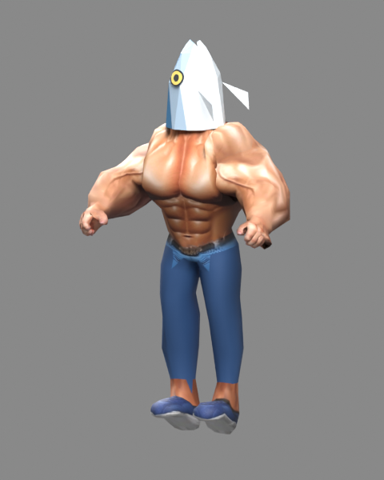
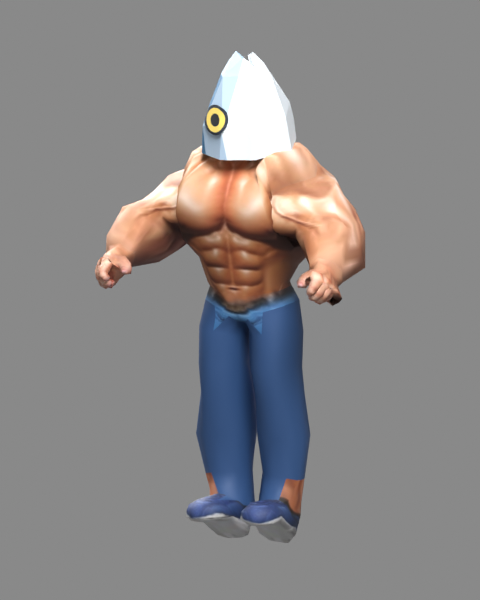
Add independent magenta controls for replacement and native operators

Changed region(s): [[0.1875, 0.0938, 0.7812, 0.875], [0.5, 0.0625, 0.5312, 0.0938]]

diff --git a/installer/app.cpp b/installer/app.cpp
@@ -56,6 +56,9 @@ int main(int argc,char**argv){
  char game[4096]={},addon[4096]={},tf2[4096]={};auto bundled=home/"addons/M1A0-Cat-Gun.bin";if(fs::exists(bundled))snprintf(addon,sizeof(addon),"%s",bundled.u8string().c_str());auto detected=read(state/"discovered.txt");snprintf(game,sizeof(game),"%s",detected.c_str());snprintf(tf2,sizeof(tf2),"%s",read(state/"tf2.txt").c_str());
  auto saved=read(state/"selected.txt");for(auto&m:mods)m.selected=saved.find(m.id+"\n")!=std::string::npos||saved==m.id;
  std::istringstream choices(read(state/"operator-plan.tsv"));std::string line;while(std::getline(choices,line)){auto split=line.find('\t');if(split==std::string::npos)continue;for(auto&t:operator_targets)if(t.id==line.substr(0,split))for(size_t n=0;n<operator_models.size();++n)if(operator_models[n].id==line.substr(split+1))t.choice=int(n);}
+ bool native_magenta=false;for(auto&m:mods)if(m.id=="players")native_magenta=m.selected;
+ for(auto&m:operator_models)m.magenta=m.id.rfind("tf2_",0)==0||m.id=="titanfall_pilot";
+ std::istringstream colors(read(state/"operator-appearance.tsv"));while(std::getline(colors,line)){auto split=line.find('\t');if(split==std::string::npos)continue;bool enabled=line.substr(split+1)=="1";if(line.substr(0,split)=="game_customs")native_magenta=enabled;for(auto&m:operator_models)if(m.id==line.substr(0,split))m.magenta=enabled;}
  std::vector<const char*>operator_labels;for(auto&m:operator_models)operator_labels.push_back(m.title.c_str());
  std::string capture;int tab=0;for(int n=1;n+1<argc;++n){if(std::string(argv[n])=="--capture")capture=argv[n+1];if(std::string(argv[n])=="--tab")tab=std::max(0,std::min(3,atoi(argv[n+1])));}
  bool authorized=false;std::thread worker;std::string job_action;std::string notice="Choose mods independently. Originals are backed up before installation.";
@@ -66,12 +69,10 @@ int main(int argc,char**argv){
   for(auto&m:mods){if(m.image)ft::free_image(m.image);auto local=state/"previews"/(m.id+".png");bool imported=fs::exists(local);m.image=ft::load_image((imported?local:home/fs::u8path(m.thumbnail)).u8string().c_str());if(imported){m.thumb_w=640;m.thumb_h=480;}}
   for(auto&m:operator_models){if(m.image)ft::free_image(m.image);m.image=nullptr;auto local=state/"previews"/(m.id+".png");if(fs::exists(local)){m.image=ft::load_image(local.u8string().c_str());m.thumb_w=480;m.thumb_h=600;}else if(!m.thumbnail.empty())m.image=ft::load_image((home/fs::u8path(m.thumbnail)).u8string().c_str());}
  };reload_previews();
+ auto write_appearance=[&](std::ostream&f){f<<",\"operator_appearance\":{\"game_customs_magenta\":"<<(native_magenta?"true":"false")<<",\"model_magenta\":{";bool first=true;for(auto&m:operator_models)if(m.id!="original"){if(!first)f<<',';first=false;f<<'"'<<m.id<<"\":"<<(m.magenta?"true":"false");}f<<"}}";};
  auto start=[&](const char*action){
   if(busy)return;if(worker.joinable())worker.join();job_action=action;
-  std::ofstream f(state/"request.json");f<<"{\"action\":\""<<action<<"\",\"game\":\""<<escape(game)<<"\",\"addon\":\""<<escape(addon)<<"\",\"state\":\""<<escape(state.u8string())<<"\",\"tf2\":\""<<escape(tf2)<<"\",\"offline_authorized\":"<<(authorized?"true":"false")<<",\"selected\":[";bool first=true;for(auto&m:mods)if(m.selected){if(!first)f<<',';first=false;f<<'"'<<m.id<<'"';}f<<"],\"supported_mods\":[";first=true;for(auto&m:mods){if(!first)f<<',';first=false;f<<'"'<<m.id<<'"';}f<<"],\"operator_assignments\":{";first=true;for(auto&t:operator_targets)if(t.choice){if(!first)f<<',';first=false;f<<'"'<<t.id<<"\":\""<<operator_models[t.choice].id<<'"';}f<<"}}";f.close();
-  if(std::string(action)=="save_operators"){
-   std::ofstream plan(state/"request.json");plan<<"{\"action\":\"save_operators\",\"state\":\""<<escape(state.u8string())<<"\",\"tf2\":\""<<escape(tf2)<<"\",\"operator_assignments\":{";bool first=true;for(auto&t:operator_targets)if(t.choice){if(!first)plan<<',';first=false;plan<<'"'<<t.id<<"\":\""<<operator_models[t.choice].id<<'"';}plan<<"}}";
-  }
+  std::ofstream f(state/"request.json");f<<"{\"action\":\""<<action<<"\",\"game\":\""<<escape(game)<<"\",\"addon\":\""<<escape(addon)<<"\",\"state\":\""<<escape(state.u8string())<<"\",\"tf2\":\""<<escape(tf2)<<"\",\"offline_authorized\":"<<(authorized?"true":"false")<<",\"selected\":[";bool first=true;for(auto&m:mods)if(m.selected){if(!first)f<<',';first=false;f<<'"'<<m.id<<'"';}f<<"],\"supported_mods\":[";first=true;for(auto&m:mods){if(!first)f<<',';first=false;f<<'"'<<m.id<<'"';}f<<"],\"operator_assignments\":{";first=true;for(auto&t:operator_targets)if(t.choice){if(!first)f<<',';first=false;f<<'"'<<t.id<<"\":\""<<operator_models[t.choice].id<<'"';}f<<"}";write_appearance(f);f<<"}";f.close();
   auto args=backend;args.insert(args.end(),{"--request",(state/"request.json").u8string()});busy=true;result=-1;notice=job_action=="save_operators"?"Saving operator choices. Game files stay unchanged.":"Working. Building and verifying bundles before installation...";worker=std::thread([&,args]{result=run(args,state/"install.log");busy=false;});
  };
  while(ft::pump()){
@@ -83,11 +84,12 @@ int main(int argc,char**argv){
   if(ft::button("Choose local M1A0 archive")){auto p=ft::open_file_dialog("M1A0 Cat Gun archive",nullptr,0);if(!p.empty())snprintf(addon,sizeof(addon),"%s",p.c_str());}
   const char*tabs[]={"Weapon models","Textures","Extras","Operators"};ft::tabs(tabs,4,&tab);
   if(tab==3){
-   ft::text_wrapped("Choose each operator's model. Apply selected mods installs available choices. Preview renders are not in-game screenshots.");
+   ft::text_wrapped("Choose each operator's model. Previews show source colors; Magenta applies at install. In-game tests remain pending.");
    ft::input("Local TF2 folder for mercenary models (blank = Steam detection)",tf2,sizeof(tf2));
    if(busy)ft::begin_disabled();if(ft::button("Import TF2 previews (game files unchanged)"))start("preview_tf2");if(busy)ft::end_disabled();
-   ft::scroll_area("Operator assignments",490,[&]{for(auto&t:operator_targets){ft::row({.22f,.48f,.30f},[&]{ft::content([&]{ft::text(t.title.c_str());});ft::content([&]{if(busy)ft::begin_disabled();ft::dropdown(("Model##"+t.id).c_str(),operator_labels.data(),int(operator_labels.size()),&t.choice);ft::text_wrapped(operator_models[t.choice].status.c_str());if(busy)ft::end_disabled();});ft::content([&]{auto&m=operator_models[t.choice];if(m.image){float fit=std::min(225.f/m.thumb_w,145.f/m.thumb_h);ft::image(m.image,m.thumb_w*fit,m.thumb_h*fit);}});});ft::separator();}});
-   if(busy)ft::begin_disabled();ft::row(2,[&]{if(ft::button("Save operator choices"))start("save_operators");if(ft::button("Use game models for all operators"))for(auto&t:operator_targets)t.choice=0;});if(busy)ft::end_disabled();
+   if(busy)ft::begin_disabled();ft::checkbox("Magenta for unmodified in-game operator models",&native_magenta);if(busy)ft::end_disabled();
+   ft::scroll_area("Operator assignments",490,[&]{for(auto&t:operator_targets){ft::row({.22f,.48f,.30f},[&]{ft::content([&]{ft::text(t.title.c_str());});ft::content([&]{if(busy)ft::begin_disabled();ft::dropdown(("Model##"+t.id).c_str(),operator_labels.data(),int(operator_labels.size()),&t.choice);ft::text_wrapped(operator_models[t.choice].status.c_str());if(busy)ft::end_disabled();});ft::content([&]{auto&m=operator_models[t.choice];if(t.choice){if(busy)ft::begin_disabled();ft::checkbox(("Magenta##color_"+t.id).c_str(),&m.magenta);if(busy)ft::end_disabled();}if(m.image){float fit=std::min(225.f/m.thumb_w,145.f/m.thumb_h);ft::image(m.image,m.thumb_w*fit,m.thumb_h*fit);}});});ft::separator();}});
+   if(busy)ft::begin_disabled();ft::row(2,[&]{if(ft::button("Save operator choices and colors"))start("save_operators");if(ft::button("Use game models for all operators"))for(auto&t:operator_targets)t.choice=0;});if(busy)ft::end_disabled();
   }else ft::scroll_area("Mod catalogue",600,[&]{std::vector<Mod*>shown;for(auto&m:mods)if(m.group==std::string(tab==0?"Models":tab==1?"Textures":"Extras"))shown.push_back(&m);for(size_t n=0;n<shown.size();n+=3){ft::row(3,[&]{for(size_t i=n;i<std::min(n+3,shown.size());++i){auto&m=*shown[i];ft::content([&]{if(busy)ft::begin_disabled();ft::checkbox(m.title.c_str(),&m.selected);if(m.image){float fit=std::min(290.f/m.thumb_w,203.f/m.thumb_h);ft::image(m.image,m.thumb_w*fit,m.thumb_h*fit);}ft::text_wrapped(m.kind.c_str());ft::text_wrapped(m.description.c_str());ft::separator();if(busy)ft::end_disabled();});}});}});
   if(busy)ft::begin_disabled();ft::checkbox("I will use these mods offline or in an explicitly authorized environment",&authorized);
   ft::row(2,[&]{if(!authorized)ft::begin_disabled();if(ft::button("Apply selected mods",ft::ColorRole::Accent))start("apply");if(!authorized)ft::end_disabled();if(ft::button("Restore all originals"))start("restore");});if(busy)ft::end_disabled();

diff --git a/operators/native_colors.py b/operators/native_colors.py
@@ -1,0 +1,98 @@
+"""Independent color control for unreplaced native operator renderers.
+
+Clone pristine materials/albedos into the private operator bundle. Shared game
+materials/textures stay unchanged, including arms, weapons and custom models.
+External material references are remapped by CAB identity, never path-ID alone.
+"""
+import copy,gc,hashlib,json
+from pathlib import Path
+import UnityPy
+from bundle_utils import digest,inventory
+from catgun.bundle import new_object
+from halftone.assets import key,dump
+from halftone.encoding import apply_pattern
+from halftone.materials import TINTS
+from .bundles import BUNDLE
+
+SOURCES=(BUNDLE,'src/src','root/root')
+ALBEDOS={'_BaseMap','_MainTex','_BaseColorMap','_Albedo'}
+
+
+def build(config,settings):
+    source=Path(config['bundle_root'])/BUNDLE;original_root=Path(settings['original_root']);out=Path(settings['output']);backup=Path(settings['backups'])/BUNDLE
+    if digest(source)!=settings['source_sha256']:raise ValueError('Native color baseline changed')
+    for rel in SOURCES:
+        if digest(original_root/rel)!=settings['original_sha256'][rel]:raise ValueError('Pristine color source changed: '+rel)
+    if (out/'manifest.json').exists():raise ValueError('Choose a fresh native color output')
+    from installer.mwc_installer.engine import copy_private
+    copy_private(source,backup);env=UnityPy.load(str(backup));before=inventory(env);objects={key(o.assets_file.name,o.path_id):o for o in env.objects};old=list(env.objects)
+    pristine=UnityPy.load(*(str(original_root/r) for r in SOURCES));originals={key(o.assets_file.name,o.path_id):o for o in pristine.objects};asset=next(o.assets_file for o in old if o.type.name=='SkinnedMeshRenderer');external_names=[e.name for e in asset.externals]
+    material_template=next(o for o in old if o.type.name=='Material');texture_template=next(o for o in old if o.type.name=='Texture2D');cloned_materials={};cloned_textures={};added=[];changes={};tex_checks=[]
+    def destination_ref(owner,ref):
+        if not ref['m_PathID']:return {'m_FileID':0,'m_PathID':0}
+        name=owner.name if ref['m_FileID']==0 else owner.externals[ref['m_FileID']-1].name
+        if name==asset.name:return {'m_FileID':0,'m_PathID':ref['m_PathID']}
+        if name not in external_names:
+            if ref['m_FileID']==0:
+                # A source CAB is already a reviewed dependency of thrid_person.
+                raise ValueError('Source CAB is not a native operator dependency: '+name)
+            asset.externals.append(copy.deepcopy(owner.externals[ref['m_FileID']-1]));external_names.append(name)
+        return {'m_FileID':external_names.index(name)+1,'m_PathID':ref['m_PathID']}
+    def original_object(owner,ref):
+        name=owner.name if ref['m_FileID']==0 else owner.externals[ref['m_FileID']-1].name
+        obj=originals.get(key(name,ref['m_PathID']))
+        if obj is None:raise ValueError('Pristine operator dependency is unavailable: '+key(name,ref['m_PathID']))
+        return obj
+    def remap(owner,value):
+        if isinstance(value,dict):
+            if set(value)>={'m_FileID','m_PathID'}:return destination_ref(owner,value)
+            return {k:remap(owner,v) for k,v in value.items()}
+        if isinstance(value,(list,tuple)):return type(value)(remap(owner,v) for v in value)
+        return value
+    def texture(original):
+        identifier=key(original.assets_file.name,original.path_id)
+        if identifier in cloned_textures:return cloned_textures[identifier]
+        if original.type.name!='Texture2D':raise ValueError('Native operator albedo needs an explicit codec: '+original.type.name)
+        obj=new_object(texture_template,'MWC-native-color-texture-'+identifier,objects);tex=original.read();raw=tex.get_image_data()
+        # UnityPy's typetree spelling is version dependent; use the typed writer
+        # after copying metadata so streamed compressed mip bytes remain exact.
+        obj.save_typetree(original.read_typetree());t=obj.read();t.m_Name='MWC_NativeColor_'+tex.m_Name;t.image_data=raw;t.m_StreamData.path='';t.m_StreamData.offset=t.m_StreamData.size=0;t.save()
+        if settings['magenta']:
+            t=obj.read();apply_pattern(t,config['categories']['characters']['color'],config['generation'])
+        else:tex_checks.append((obj.path_id,hashlib.sha256(raw).hexdigest()))
+        cloned_textures[identifier]=obj.path_id;added.append(key(asset.name,obj.path_id));return obj.path_id
+    def material(original):
+        identifier=key(original.assets_file.name,original.path_id)
+        if identifier in cloned_materials:return cloned_materials[identifier]
+        tree=original.read_typetree();result=remap(original.assets_file,tree);result['m_Name']='MWC_NativeColor_'+tree['m_Name']
+        source_slots=dict(tree['m_SavedProperties']['m_TexEnvs'])
+        for slot,value in result['m_SavedProperties']['m_TexEnvs']:
+            pointer=source_slots[slot]['m_Texture']
+            if slot in ALBEDOS and pointer['m_PathID']:value['m_Texture']={'m_FileID':0,'m_PathID':texture(original_object(original.assets_file,pointer))}
+        if settings['magenta']:
+            for slot,color in result['m_SavedProperties']['m_Colors']:
+                if slot in TINTS:color['r']=color['g']=color['b']=1.
+            result['m_SavedProperties']['m_Floats']=[(slot,0. if slot=='EnableCamo' else value) for slot,value in result['m_SavedProperties']['m_Floats']]
+        obj=new_object(material_template,'MWC-native-color-material-'+identifier,objects);obj.save_typetree(result);cloned_materials[identifier]=obj.path_id;added.append(key(asset.name,obj.path_id));return obj.path_id
+    targets=json.loads((Path(__file__).resolve().parents[1]/'config/operator-targets.json').read_text())['operators'];skipped=set(settings.get('operator_assignments',{}));native_cab=asset.name
+    for target in targets:
+        if target['id'] in skipped:continue
+        for row in target['renderers']:
+            oid=key(native_cab,int(row['path_id']));obj=objects[oid];tree=obj.read_typetree();pristine_renderer=originals[oid];original_tree=pristine_renderer.read_typetree();materials=[{'m_FileID':0,'m_PathID':material(original_object(pristine_renderer.assets_file,p))} if p['m_PathID'] else p for p in original_tree['m_Materials']];tree['m_Materials']=materials;obj.save_typetree(tree);changes[oid]=materials
+    expected=copy.deepcopy(before)
+    for oid in list(changes)+added:
+        obj=objects[oid];expected[(obj.assets_file.name,obj.path_id)]={'type':obj.type.name,'sha256':hashlib.sha256(obj.data).hexdigest()}
+    destination=out/BUNDLE;destination.parent.mkdir(parents=True,exist_ok=True);destination.write_bytes(env.file.save(packer='lz4'));del env;gc.collect();checked=UnityPy.load(str(destination));after={key(o.assets_file.name,o.path_id):o for o in checked.objects}
+    if inventory(checked)!=expected:raise ValueError('Native operator color serialization mismatch')
+    for obj in old:
+        oid=key(obj.assets_file.name,obj.path_id)
+        if oid not in changes and obj.get_raw_data()!=after[oid].get_raw_data():raise ValueError('Unrelated native color asset changed')
+    baseline=UnityPy.load(str(backup))
+    for obj in baseline.objects:
+        oid=key(obj.assets_file.name,obj.path_id)
+        if oid in changes:
+            tree=obj.read_typetree();tree['m_Materials']=changes[oid]
+            if tree!=after[oid].read_typetree():raise ValueError('Native color exceeded renderer material whitelist')
+    for pid,sha in tex_checks:
+        if hashlib.sha256(after[key(native_cab,pid)].read().get_image_data()).hexdigest()!=sha:raise ValueError('Restored original albedo mip bytes changed')
+    report={'files':[{'bundle':BUNDLE,'output':str(destination.resolve()),'backup':str(backup.resolve()),'source_sha256':digest(backup),'output_sha256':digest(destination)}],'magenta':settings['magenta'],'native_renderers':len(changes),'materials_cloned':len(cloned_materials),'textures_cloned':len(cloned_textures),'verification':{'all_other_original_objects_byte_exact':True,'only_owned_renderer_material_bindings_changed':True,'pristine_albedo_mip_bytes_exact':not settings['magenta'],'replaced_models_excluded':sorted(skipped)},'in_game_tested':False};dump(out/'manifest.json',report);return report

diff --git a/installer/mwc_installer/engine.py b/installer/mwc_installer/engine.py
@@ -164,7 +164,7 @@ def recover(config,state):
         replace_verified(Path(row['backup']),target,row['after'],row['before'])
     jp.unlink();log('Recovered interrupted transaction; previous selections restored.')
 
-def transaction(config,state,saved,outputs,selected,operator_assignments=None):
+def transaction(config,state,saved,outputs,selected,operator_assignments=None,operator_appearance=None):
     root=Path(config['bundle_root']);identity=uuid.uuid4().hex;undo=state/'transactions'/identity;rows=[]
     for rel,source in sorted(outputs.items()):
         before=saved['installed'][rel];after=digest(source)
@@ -174,19 +174,20 @@ def transaction(config,state,saved,outputs,selected,operator_assignments=None):
         rows.append(dict(bundle=rel,source=str(source),backup=str(backup.resolve()),before=before,after=after))
     verify_current(config,state,saved)
     if game_running(root.parents[2]):raise ValueError('Close Combat Master before installing')
-    j={'id':identity,'files':rows,'selected':sorted(selected),'operator_assignments':operator_assignments};dump(state/'pending.json',j)
+    j={'id':identity,'files':rows,'selected':sorted(selected),'operator_assignments':operator_assignments,'operator_appearance':operator_appearance};dump(state/'pending.json',j)
     try:
         for row in rows:
             replace_verified(Path(row['source']),root/row['bundle'],row['before'],row['after']);log('Installed and hash verified: '+row['bundle'])
         updated=copy.deepcopy(saved);updated['selected']=sorted(selected);updated['transaction']=identity
         if operator_assignments is not None:updated['operator_assignments']=copy.deepcopy(operator_assignments)
+        if operator_appearance is not None:updated['operator_appearance']=copy.deepcopy(operator_appearance)
         for row in rows:updated['installed'][row['bundle']]=row['after']
         dump(state/'state.json',updated)
     except BaseException:
         recover(config,state);raise
     (state/'pending.json').unlink();return updated
 
-def compose(config,state,saved,selected,addon,operator_assignments=None,tf2=''):
+def compose(config,state,saved,selected,addon,operator_assignments=None,tf2='',operator_appearance=None):
     """Always compose from originals; no stale layer can overwrite another mod."""
     from halftone.pipeline import build_id
     from halftone.assets import scan
@@ -202,6 +203,8 @@ def compose(config,state,saved,selected,addon,operator_assignments=None,tf2=''):
     c=copy.deepcopy(config);c['bundle_root']=str(work);c['source_overrides']={}
     c['paths']={n:str(run/n) for n in ('reports','output','backups','canonical')}
     if operator_assignments is None:operator_assignments=saved.get('operator_assignments',{})
+    from operators.styles import normalize as appearance_defaults
+    operator_appearance=appearance_defaults(saved.get('operator_appearance') if operator_appearance is None else operator_appearance,players='players' in selected)
     textures=bool(selected&{'players','weapons','terrain'})
     for name,category in c['categories'].items():category['enabled']=('players' in selected if name=='characters' else 'weapons' in selected if name=='weapons' else 'terrain' in selected)
     if textures:
@@ -268,10 +271,13 @@ def compose(config,state,saved,selected,addon,operator_assignments=None,tf2=''):
     if 'menu' in selected:
         import menu_background
         log('Building Fishguy menu...');s=settings('menu');s.update(source_sha256=digest(work/'root/root'),image=str(ROOT/'assets/branding/menu-halftone.png'));menu_background.build(c,s);merge(s)
+    if operator_appearance['game_customs_magenta']!=('players' in selected):
+        from operators.native_colors import build as native_colors,SOURCES as native_color_sources
+        log('Building independent native-operator colors...');s=settings('native-colors');s.update(source_sha256=digest(work/'src/thrid_person'),original_root=str(state/'originals'),original_sha256={r:saved['originals'][r] for r in native_color_sources},magenta=operator_appearance['game_customs_magenta'],operator_assignments=operator_assignments);native_colors(c,s);merge(s)
     if operator_assignments:
         from operators.library import prepare as operator_sources
         from operators.bundles import build as operator_build,BUNDLE
-        log('Building explicit per-operator replacements...');s=settings('operators');s.update(assignments=operator_assignments,source_sha256=digest(work/BUNDLE),library=operator_sources(c,operator_assignments,run,tf2));operator_build(c,s);merge(s)
+        log('Building explicit per-operator replacements...');s=settings('operators');s.update(assignments=operator_assignments,source_sha256=digest(work/BUNDLE),library=operator_sources(c,operator_assignments,run,tf2,operator_appearance));operator_build(c,s);merge(s)
     return {rel:work/rel for rel in saved['originals']}
 
 def validate_frontend(saved,request):
@@ -281,6 +287,7 @@ def validate_frontend(saved,request):
     missing=set(saved.get('selected',[]))-set(supported)
     if missing:raise ValueError('Outdated installer cannot represent installed mods: '+', '.join(sorted(missing))+'. Reopen the current installer before applying a selection.')
     if saved.get('operator_assignments') and 'operator_assignments' not in request:raise ValueError('Outdated installer cannot represent installed operator assignments; reopen the current installer')
+    if saved.get('operator_appearance') and 'operator_appearance' not in request:raise ValueError('Outdated installer cannot represent installed operator colors; reopen the current installer')
 
 def execute(request):
     game=request.get('game','')
@@ -301,10 +308,12 @@ def execute(request):
         os.chdir(state) # legacy safe_output confines generated files to CWD
         recover(config,state)
         saved=snapshot(config,state,request.get('adopt'));verify_current(config,state,saved)
+        from operators.styles import normalize as appearance_defaults
+        operator_appearance=appearance_defaults(request.get('operator_appearance',saved.get('operator_appearance')),players='players' in selected)
         if request['action']=='apply':validate_frontend(saved,request)
-        if request['action']=='restore':selected=set();operator_assignments={};outputs={rel:state/'originals'/rel for rel in saved['originals']}
-        elif request['action']=='apply':outputs=compose(config,state,saved,selected,request.get('addon',''),operator_assignments,request.get('tf2',''))
+        if request['action']=='restore':selected=set();operator_assignments={};operator_appearance=appearance_defaults(players=False);outputs={rel:state/'originals'/rel for rel in saved['originals']}
+        elif request['action']=='apply':outputs=compose(config,state,saved,selected,request.get('addon',''),operator_assignments,request.get('tf2',''),operator_appearance)
         else:raise ValueError('Unknown action')
-        result=transaction(config,state,saved,outputs,selected,operator_assignments)
+        result=transaction(config,state,saved,outputs,selected,operator_assignments,operator_appearance)
         log('Complete. Selected mods: '+(', '.join(result['selected']) or 'none (originals restored)'))
         return result

diff --git a/staged_bundle_update.py b/staged_bundle_update.py
@@ -29,7 +29,7 @@ def run(action,settings):
             if assignments is not None:
                 from operators.assignments import validate
                 assignments=validate(assignments)
-            result=e.transaction(c,state,saved,outputs,set(settings['selected']),operator_assignments=assignments)
+            result=e.transaction(c,state,saved,outputs,set(settings['selected']),operator_assignments=assignments,operator_appearance=settings.get('operator_appearance'))
             journal=state/'transactions'/result['transaction'];undo={r:str(journal/r) for r in outputs if (journal/r).is_file()}
             dump(record,{'status':'applied','before':saved,'after':result,'undo':undo,'in_game_tested':False})
         elif action=='restore':
@@ -37,13 +37,17 @@ def run(action,settings):
             if rec['status']!='applied':raise ValueError('No applied expansion to restore')
             if saved['installed']!=rec['after']['installed']:raise ValueError('Installed selection changed after this update; restore through the manager instead')
             outputs={rel:Path(p) for rel,p in rec['undo'].items()}
-            result=e.transaction(c,state,saved,outputs,set(rec['before']['selected']),operator_assignments=rec['before'].get('operator_assignments',{}))
+            from operators.styles import normalize
+            result=e.transaction(c,state,saved,outputs,set(rec['before']['selected']),operator_assignments=rec['before'].get('operator_assignments',{}),operator_appearance=normalize(rec['before'].get('operator_appearance'),players='players' in rec['before']['selected']))
             if result['installed']!=rec['before']['installed']:raise ValueError('Restored stack hashes do not match the recorded prior state')
             rec['status']='restored';dump(record,rec)
         else:raise ValueError('Unknown action')
         (state/'selected.txt').write_text('\n'.join(result['selected'])+'\n')
         from operators.assignments import save_plan
         save_plan(state,result.get('operator_assignments',{}))
+        if 'operator_appearance' in result:
+            from operators.styles import save as save_styles
+            save_styles(state,result['operator_appearance'],players='players' in result['selected'])
         return {'action':action,'selected':result['selected'],'game_process_was_not_closed':True,'in_game_tested':False}
 if __name__=='__main__':
     p=argparse.ArgumentParser();p.add_argument('action',choices=['apply','restore']);p.add_argument('--config',required=True);a=p.parse_args();print(json.dumps(run(a.action,json.loads(Path(a.config).read_text())),indent=2))

diff --git a/tests/test_operator_styles.py b/tests/test_operator_styles.py
@@ -1,0 +1,31 @@
+import json,tempfile,unittest
+from pathlib import Path
+import numpy as np
+from operators.styles import normalize,save,load
+from operators.assets import load as asset
+
+ROOT=Path(__file__).resolve().parents[1]
+
+
+class OperatorStyles(unittest.TestCase):
+    def test_defaults_preserve_character_designs_and_current_native_selection(self):
+        plain=normalize(players=False);painted=normalize(players=True)
+        self.assertFalse(plain['game_customs_magenta']);self.assertTrue(painted['game_customs_magenta'])
+        for name in ['fishguy','shrek','mario','minecraft_steve']:self.assertFalse(plain['model_magenta'][name])
+        self.assertTrue(plain['model_magenta']['tf2_heavy'])
+
+    def test_model_and_native_preferences_are_independent_and_roundtrip(self):
+        with tempfile.TemporaryDirectory() as directory:
+            value={'model_magenta':{'fishguy':True,'tf2_heavy':False},'game_customs_magenta':False};saved=save(directory,value,players=True);self.assertEqual(load(directory),saved);self.assertTrue(saved['model_magenta']['fishguy']);self.assertFalse(saved['model_magenta']['tf2_heavy']);self.assertFalse(saved['game_customs_magenta']);self.assertFalse((Path(directory)/'state.json').exists())
+
+    def test_unknown_models_or_non_boolean_choices_are_rejected(self):
+        for value in [{'model_magenta':{'unknown':True}},{'model_magenta':{'shrek':1}},{'game_customs_magenta':'false'}]:
+            with self.assertRaises(ValueError):normalize(value)
+
+    def test_magenta_recolors_without_changing_source_geometry_skin_or_alpha(self):
+        source=ROOT/'assets/operator-sources/shrek';config=json.loads((ROOT/'config/preset.json').read_text());a,plain,ia,wa,_=asset(source);b,magenta,ib,wb,_=asset(source,'magenta',config)
+        for x,y in zip(a.arrays(),b.arrays()):np.testing.assert_array_equal(x,y)
+        np.testing.assert_array_equal(ia,ib);np.testing.assert_array_equal(wa,wb);np.testing.assert_array_equal(np.asarray(plain)[:,:,3],np.asarray(magenta)[:,:,3]);self.assertFalse(np.array_equal(np.asarray(plain)[:,:,:3],np.asarray(magenta)[:,:,:3]))
+
+
+if __name__=='__main__':unittest.main()

diff --git a/installer/backend.py b/installer/backend.py
@@ -30,6 +30,8 @@ def main():
         state_path=a.status.parent/'state.json';saved=json.loads(state_path.read_text()) if state_path.exists() else {}
         choices=load_plan(a.status.parent) if (a.status.parent/'operator-plan.json').exists() else saved.get('operator_assignments',{})
         save_plan(a.status.parent,choices)
+        from operators.styles import load as load_styles,save as save_styles
+        save_styles(a.status.parent,load_styles(a.status.parent,saved.get('operator_appearance'),players='players' in saved.get('selected',[])))
         games=discover();a.status.parent.mkdir(parents=True,exist_ok=True);a.status.write_text(games[0] if len(games)==1 else '',encoding='utf8');return
     if not a.request:p.error('--request or --status required')
     request=json.loads(a.request.read_text(encoding='utf8'))
@@ -41,6 +43,8 @@ def main():
         from operators.assignments import save_plan
         with engine.locked(Path(request['state'])):
             saved=save_plan(request['state'],request.get('operator_assignments',{}))
+            from operators.styles import save as save_styles
+            save_styles(request['state'],request.get('operator_appearance'),players='players' in request.get('selected',[]))
             Path(request['state'],'tf2.txt').write_text(request.get('tf2',''),encoding='utf8')
         print('Saved '+str(len(saved))+' operator choices. Game files unchanged; rig builds and installation remain pending.',flush=True)
         return
@@ -49,6 +53,8 @@ def main():
     if request['action']=='apply':
         from operators.assignments import save_plan
         save_plan(request['state'],result.get('operator_assignments',{}));Path(request['state'],'tf2.txt').write_text(request.get('tf2',''),encoding='utf8')
+    from operators.styles import save as save_styles
+    save_styles(request['state'],result.get('operator_appearance'),players='players' in result['selected'])
 if __name__=='__main__':
     try:main()
     except BaseException as e:

diff --git a/operators/assets.py b/operators/assets.py
@@ -16,9 +16,13 @@ def load(source,style='original',pattern_config=None):
         for filename,field in [('source.npz','mesh_sha256'),('albedo.png','albedo_sha256')]:
             if hashlib.sha256((source/filename).read_bytes()).hexdigest()!=meta[field]:raise ValueError('Packaged operator source hash mismatch: '+filename)
         with Image.open(source/'albedo.png') as image:atlas=image.convert('RGBA')
-        if style!='original':raise ValueError('Prepacked source needs an explicitly prepared style variant')
+        if style=='magenta':
+            if pattern_config is None:raise ValueError('Magenta style needs the existing halftone configuration')
+            from halftone.patterns import pattern
+            pixels=np.asarray(atlas).copy();dots,_=pattern(pattern_config['categories']['characters']['color'],pattern_config['generation'],atlas.width,atlas.height);detail=(pixels[:,:,:3].astype(float)@np.array([.2126,.7152,.0722]))/255;pixels[:,:,:3]=np.rint(dots*(.30+.70*detail[:,:,None])).astype(np.uint8);atlas=Image.fromarray(pixels)
+        elif style!='original':raise ValueError('Unknown operator material style')
         mesh=Mesh();mesh.vertices=v.tolist();mesh.normals=n.tolist();mesh.uv=uv.tolist();mesh.faces=faces.tolist()
-        return mesh,atlas,a['bone_indices'].copy(),a['bone_weights'].copy(),meta
+        return mesh,atlas,a['bone_indices'].copy(),a['bone_weights'].copy(),{**meta,'style':style}
     count=len(meta['materials']);cols=math.ceil(math.sqrt(count));rows=math.ceil(count/cols);tile=512;gutter=4;stride=tile+2*gutter;atlas=Image.new('RGBA',(cols*stride,rows*stride),(255,255,255,0));mapped=uv.copy();assigned=np.full(len(v),-1);alpha_used=False
     for mi,mat in enumerate(meta['materials']):
         ids=np.unique(faces[fm==mi].ravel())

diff --git a/operators/styles.py b/operators/styles.py
@@ -1,0 +1,24 @@
+"""Independent appearance preferences for modded and native operator models."""
+import json
+from pathlib import Path
+from .assignments import catalogue
+
+
+def normalize(value=None,players=False):
+    _,models=catalogue();defaults={m['id']:m['id'].startswith('tf2_') or m['id']=='titanfall_pilot' for m in models if m['id']!='original'}
+    if value is None:return {'model_magenta':defaults,'game_customs_magenta':bool(players)}
+    if not isinstance(value,dict) or set(value)-{'model_magenta','game_customs_magenta'}:raise ValueError('Invalid operator appearance preferences')
+    choices=value.get('model_magenta',{})
+    if not isinstance(choices,dict) or set(choices)-defaults.keys() or any(type(v) is not bool for v in choices.values()):raise ValueError('Model magenta choices must be known model IDs and booleans')
+    native=value.get('game_customs_magenta',bool(players))
+    if type(native) is not bool:raise ValueError('Native operator magenta choice must be a boolean')
+    return {'model_magenta':{**defaults,**choices},'game_customs_magenta':native}
+
+
+def save(state,value,players=False):
+    from halftone.assets import dump
+    state=Path(state);value=normalize(value,players);dump(state/'operator-appearance.json',value);(state/'operator-appearance.tsv').write_text('game_customs\t'+str(int(value['game_customs_magenta']))+'\n'+''.join(k+'\t'+str(int(v))+'\n' for k,v in value['model_magenta'].items()),encoding='utf8');return value
+
+
+def load(state,fallback=None,players=False):
+    path=Path(state)/'operator-appearance.json';return normalize(json.loads(path.read_text()) if path.exists() else fallback,players)

diff --git a/installer/package.py b/installer/package.py
@@ -45,7 +45,7 @@ def build(windows):
             cmd+=['--add-data',str(R/name)+':'+target]
         for pkg in ['UnityPy','numpy','PIL','texture2ddecoder','etcpak','astc_encoder','fmod_toolkit','pyfmodex','tpk_ar','archspec','installer.mwc_installer']:cmd+=['--collect-all',pkg]
         # Builders are imported inside branches, and all must be visible to analysis.
-        for name in ['catgun.operations','catgun.bundle','catgun.import_addon','weapon_models.bundles','weapon_models.local_tf2','sight_customization','helicopter_windows','crate_colors','cat_audio','menu_background','halftone.arrays','halftone.shared','skybox.bundles','weapon_models.imported','operators.assignments','operators.inventory','operators.retarget','model_import.tf2','operators.assets','operators.bundles','operators.library','operators.profiles','operators.skinning']:cmd+=['--hidden-import',name]
+        for name in ['catgun.operations','catgun.bundle','catgun.import_addon','weapon_models.bundles','weapon_models.local_tf2','sight_customization','helicopter_windows','crate_colors','cat_audio','menu_background','halftone.arrays','halftone.shared','skybox.bundles','weapon_models.imported','operators.assignments','operators.inventory','operators.retarget','model_import.tf2','operators.assets','operators.bundles','operators.library','operators.profiles','operators.skinning','operators.styles','operators.native_colors','operators.previews']:cmd+=['--hidden-import',name]
         subprocess.run(cmd+[str(I/'backend.py')],check=True,cwd=R)
         shutil.copytree(I/'build/backend-dist/mwc-backend',dest/'backend',symlinks=True)
         import archspec

diff --git a/tests/test_installer.py b/tests/test_installer.py
@@ -56,6 +56,12 @@ class Transactions(unittest.TestCase):
     def test_old_frontend_cannot_drop_installed_operator_choices(self):
         with self.assertRaisesRegex(ValueError,'operator assignments'):
             e.validate_frontend({'selected':[],'operator_assignments':{'operator_30':'shrek'}},{'supported_mods':sorted(e.IDS)})
+    def test_old_frontend_cannot_drop_installed_operator_colors(self):
+        with self.assertRaisesRegex(ValueError,'operator colors'):
+            e.validate_frontend({'selected':[],'operator_appearance':{'game_customs_magenta':False}},{'supported_mods':sorted(e.IDS),'operator_assignments':{}})
+    @patch.object(e,'game_running',return_value=False)
+    def test_operator_colors_are_committed_and_preserved_by_unrelated_transactions(self,_):
+        colors={'model_magenta':{'fishguy':True},'game_customs_magenta':False};installed=e.transaction(self.config,self.state,self.saved,self.output(),{'lynx'},operator_appearance=colors);self.assertEqual(installed['operator_appearance'],colors);unchanged=e.transaction(self.config,self.state,installed,{},set());self.assertEqual(unchanged['operator_appearance'],colors)
     @patch.object(e,'game_running',return_value=False)
     def test_operator_choices_commit_restore_and_survive_unrelated_transactions(self,_):
         chosen={'operator_30':'shrek'};installed=e.transaction(self.config,self.state,self.saved,self.output(),{'lynx'},chosen)

diff --git a/operators/library.py b/operators/library.py
@@ -24,7 +24,9 @@ def discover_tf2(config,requested=''):
     return found[0]
 
 
-def prepare(config,assignments,work,tf2=''):
+def prepare(config,assignments,work,tf2='',appearance=None):
+    from .styles import normalize
+    appearance=normalize(appearance)
     required=set(assignments.values());result={}
     for model in required & {'shrek','fishguy','mario','minecraft_steve'}:
         source=ROOT/'assets/operator-sources'/model
@@ -38,4 +40,5 @@ def prepare(config,assignments,work,tf2=''):
             source=flatten(raw/model.removeprefix('tf2_'),Path(work)/'operator-sources'/model);result[model]={'source':str(source),'profile':model,'style':'magenta'}
     missing=required-result.keys()
     if missing:raise ValueError('These models are still being prepared and cannot be installed yet: '+', '.join(sorted(missing)))
+    for model,spec in result.items():spec['style']='magenta' if appearance['model_magenta'][model] else 'original'
     return result

diff --git a/installer/build_frontend.py b/installer/build_frontend.py
@@ -9,7 +9,7 @@ header='#pragma once\nstruct Mod {std::string id,title,group,description,thumbna
 for m in mods:
     with Image.open(root/m['thumbnail']) as img:w,h=img.size
     header+='{'+','.join(json.dumps(m[k]) for k in ('id','title','group','description','thumbnail','preview_kind'))+f',{w},{h}'+'},\n'
-header+='};\nstruct OperatorChoice {std::string id,title,status,thumbnail;float thumb_w=1,thumb_h=1;ft::ImageHandle* image=nullptr;};\nstatic std::vector<OperatorChoice> operator_models={\n'
+header+='};\nstruct OperatorChoice {std::string id,title,status,thumbnail;float thumb_w=1,thumb_h=1;ft::ImageHandle* image=nullptr;bool magenta=false;};\nstatic std::vector<OperatorChoice> operator_models={\n'
 for m in json.loads((root.parent/'config/operator-models.json').read_text())['models']:
     thumbnail=m.get('thumbnail','');w=h=1
     if thumbnail:
